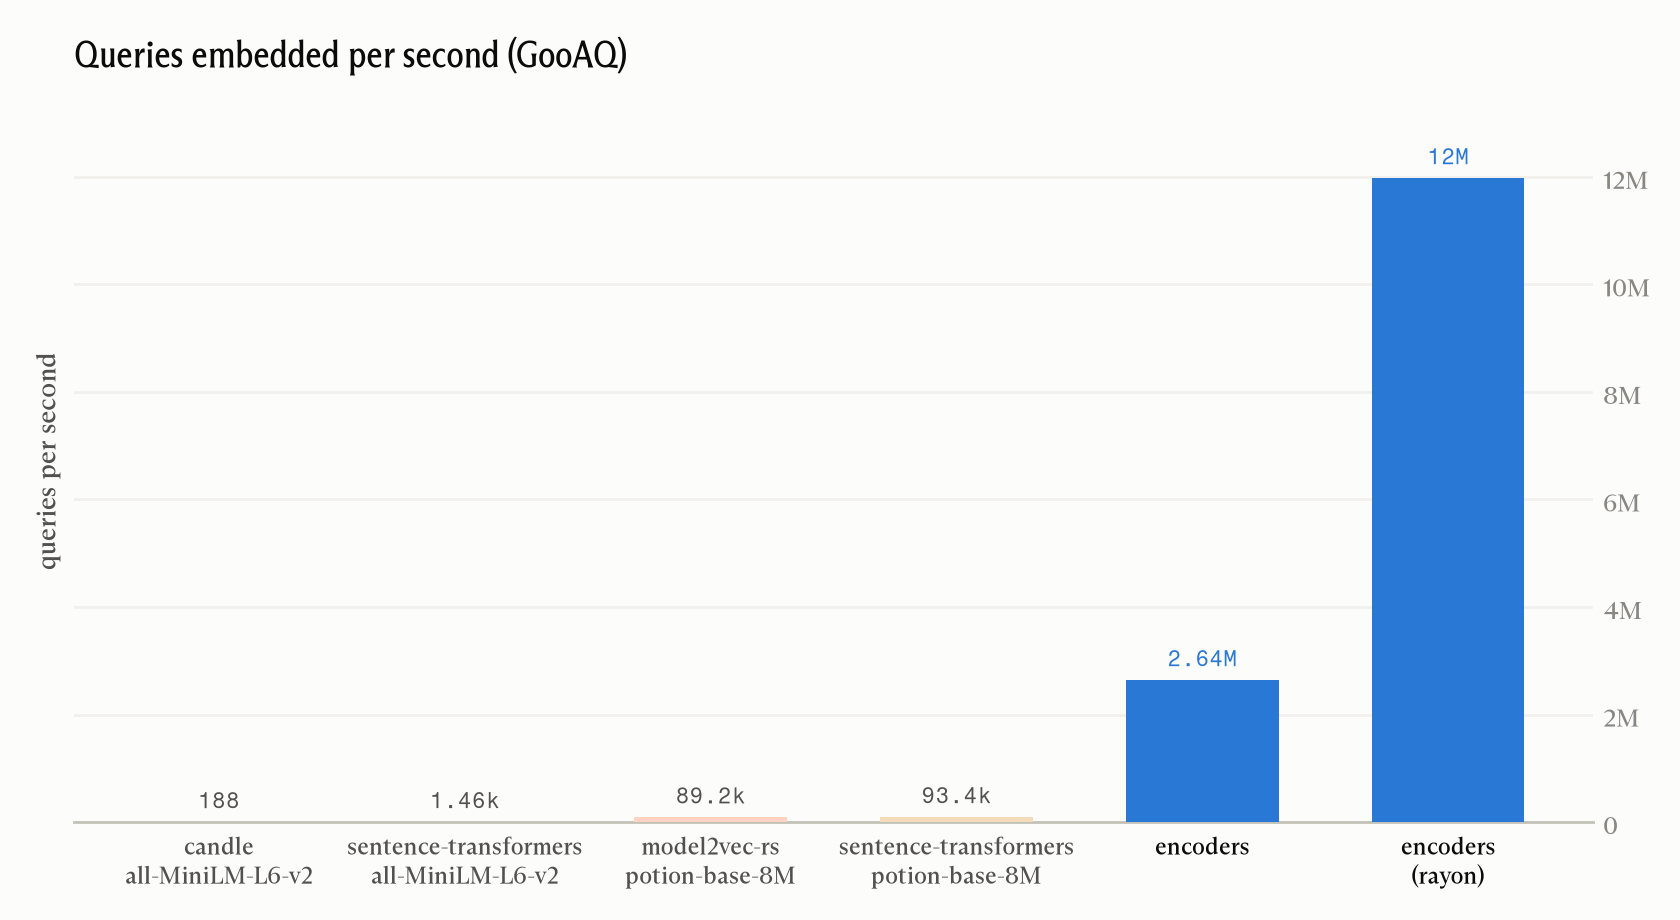
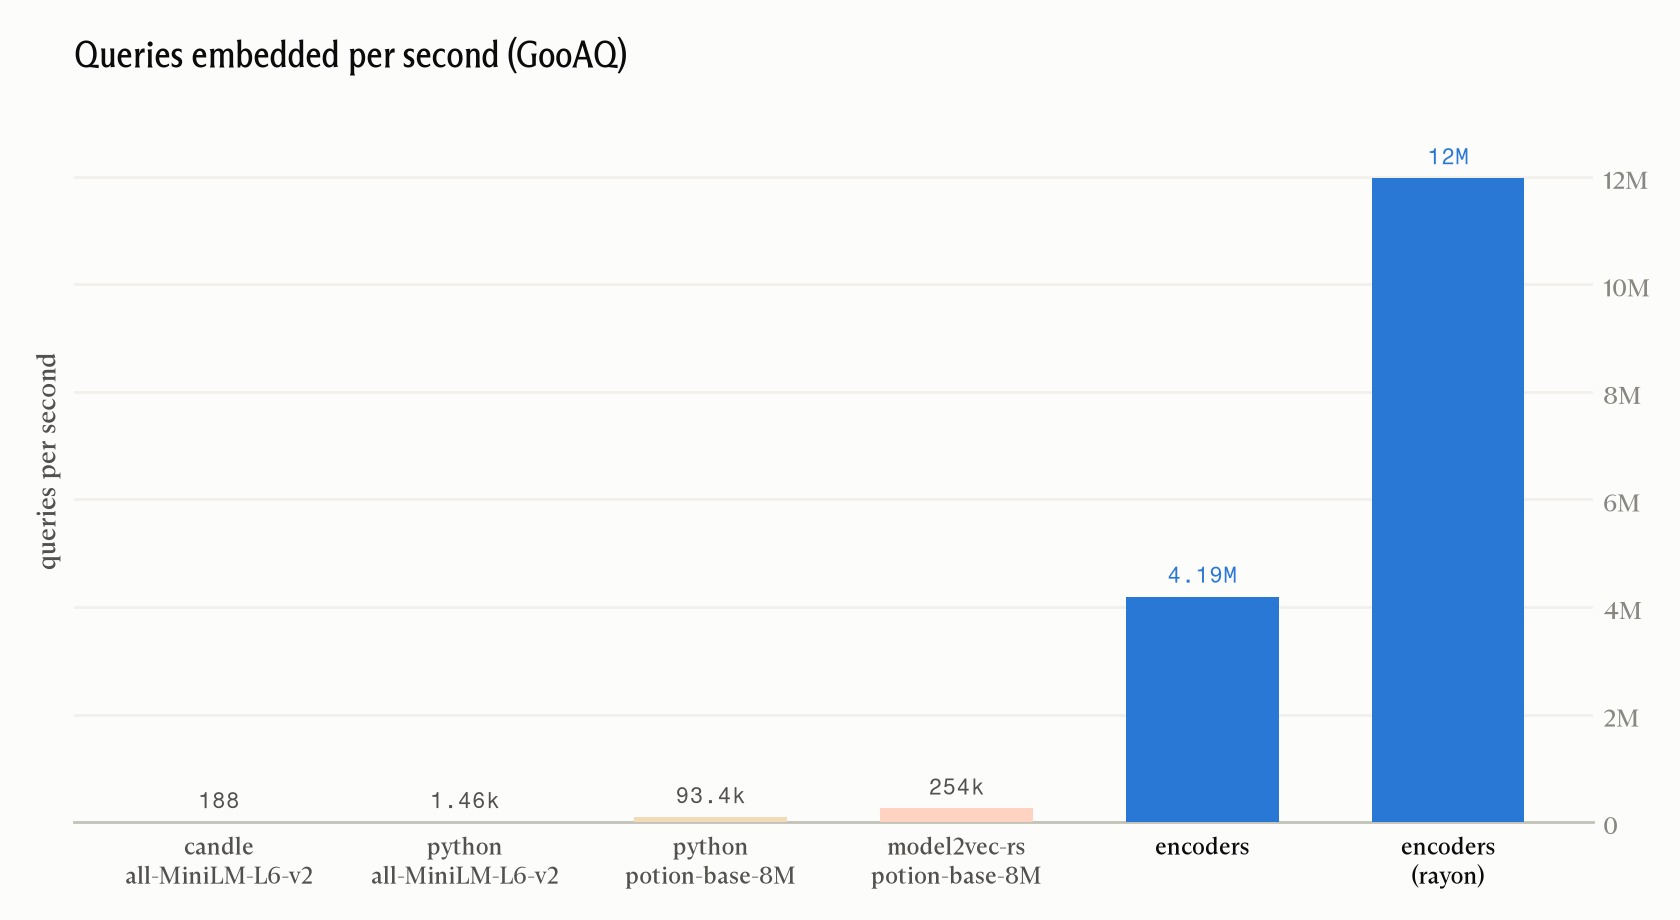
run m2v-rs benchmark on all cores

diff --git a/bench/benches/embedders.rs b/bench/benches/embedders.rs
@@ -5,12 +5,15 @@
 //!   With `--features rayon` this is recorded as `encoders-rayon` on every
 //!   core and the other two are skipped.
 //! - `model2vec-rs`: model2vec's default model (`minishlab/potion-base-8M`),
-//!   downloaded through hf-hub on first run.
+//!   downloaded through hf-hub on first run. Its only parallelism is the
+//!   `tokenizers` batch encode, which runs here on every core in its own rayon
+//!   pool, matching sentence-transformers, whose tokenizer is not limited by
+//!   torch's thread setting either.
 //! - `candle/all-MiniLM-L6-v2`: the usual small transformer baseline, run on
 //!   CPU with candle in f32, mean pooled and normalized like
 //!   sentence-transformers does. Weights are downloaded to `target/minilm`
-//!   on first run. Outside the `rayon` build everything is pinned to one
-//!   thread, so all three bars are single-core.
+//!   on first run. Outside the `rayon` build, encoders and candle are pinned
+//!   to one thread.
 
 use criterion::{Criterion, SamplingMode, Throughput, criterion_group, criterion_main};
 use candle_core::{Device, Tensor};
@@ -138,8 +141,15 @@ fn bench_embedders(c: &mut Criterion) {
 
     let model2vec = StaticModel::from_pretrained(MODEL2VEC_DEFAULT, None, None, None)
         .unwrap_or_else(|e| panic!("model2vec-rs failed to load {MODEL2VEC_DEFAULT}: {e}"));
+    // The global pool is pinned to one thread for candle; model2vec-rs gets
+    // a pool of its own on every core. Rayon's parallel iterators (here the
+    // `tokenizers` batch encode) run in whichever pool they are called from.
+    let all_cores = rayon::ThreadPoolBuilder::new()
+        .num_threads(std::thread::available_parallelism().map_or(1, |n| n.get()))
+        .build()
+        .expect("failed to build the model2vec-rs thread pool");
     group.bench_function("model2vec-rs", |b| {
-        b.iter(|| black_box(model2vec.encode(black_box(&batch))));
+        b.iter(|| all_cores.install(|| black_box(model2vec.encode(black_box(&batch)))));
     });
 
     let minilm = MiniLm::load();

diff --git a/bench/py/charts.py b/bench/py/charts.py
@@ -48,8 +48,8 @@ QPS_LABELS = {
     "encoders-rayon": "encoders\n(rayon)",
     "model2vec-rs": "model2vec-rs\npotion-base-8M",
     "candle/all-MiniLM-L6-v2": "candle\nall-MiniLM-L6-v2",
-    "minishlab/potion-base-8M": "sentence-transformers\npotion-base-8M",
-    "sentence-transformers/all-MiniLM-L6-v2": "sentence-transformers\nall-MiniLM-L6-v2",
+    "minishlab/potion-base-8M": "python\npotion-base-8M",
+    "sentence-transformers/all-MiniLM-L6-v2": "python\nall-MiniLM-L6-v2",
 }
 PY_MODELS = ["minishlab/potion-base-8M", "sentence-transformers/all-MiniLM-L6-v2"]
 HIGHLIGHT = {"encoders", "encoders-rayon"}
@@ -147,7 +147,10 @@ def criterion_results(group: str) -> dict[str, float]:
         assert unit in ("Bytes", "Elements"), unit
         out[meta["function_id"]] = count / secs
     if not out:
-        print(f"no criterion results under {CRITERION / group}; skipping its chart", file=sys.stderr)
+        print(
+            f"no criterion results under {CRITERION / group}; skipping its chart",
+            file=sys.stderr,
+        )
     return out
 
 

diff --git a/bench/py/qps.py b/bench/py/qps.py
@@ -2,8 +2,9 @@
 
 Encodes the same first 4096 gooaq questions as the Rust bench, repeatedly for
 about 15 s per model, and reports the mean QPS with the first pass discarded
-as warm-up. Defaults to model2vec's default model and all-MiniLM-L6-v2, run
-on a single CPU thread to match the Rust bench; pass model names to override.
+as warm-up. Defaults to model2vec's default model and all-MiniLM-L6-v2, with
+torch limited to one thread; the Hugging Face tokenizer still spreads each
+batch across every core. Pass model names to override.
 
     uv run qps.py
     uv run qps.py minishlab/potion-base-8M sentence-transformers/all-MiniLM-L6-v2

diff --git a/readme.md b/readme.md
@@ -283,7 +283,7 @@ The idea behind encoders (and the crate that underpins it, [`ese`](./ese)) is si
 
 **Unbounded input.** When 256 rows are pending they're drained into a running sum and collection starts over, so there is no token limit: a three-word query and an entire book take the same code path, and every token of the book counts. This is a real difference from some other implementations. `model2vec-rs`, for example, truncates to 512 tokens by default, so very long inputs embed differently there.
 
-**Benchmarks.** The charts come from the [`bench`](./bench) crate (Criterion) and its Python companion in [`bench/py`](./bench/py). Every workload runs over questions from the [GooAQ](https://huggingface.co/datasets/sentence-transformers/gooaq) dataset, through each library's own API, on a single CPU thread. The exceptions are the bars labeled `rayon`, and tantivy, whose index writer starts its own worker threads. SHA-256 uses the `sha2` crate's portable implementation with hardware SHA instructions disabled. To regenerate both charts on your own machine:
+**Benchmarks.** The charts come from the [`bench`](./bench) crate (Criterion) and its Python companion in [`bench/py`](./bench/py). Every workload runs over questions from the [GooAQ](https://huggingface.co/datasets/sentence-transformers/gooaq) dataset. To regenerate both charts on your own machine:
 
 ```console
 $ uv run --project bench/py bench/py/charts.py
@@ -293,7 +293,7 @@ The workspace has four crates. `encoders` is the one above. [`ese`](./ese) is th
 
 ### Caveats emptor
 
-**Embedding quality.** Encoders only works with static embedding models: each token has one fixed vector and a text is the mean of its tokens' vectors. There is no attention, so word order and context are invisible, and quality is a step below even small transformer encoders. On retrieval benchmarks the gap is real but not enormous; the bekko family scores about 49 to 54 on NanoBEIR against the low 60s for a small transformer. In exchange, embedding text runs in the order of nanoseconds instead of milliseconds. For a lot of (if not most) search, dedup, clustering, and routing work, that is the right trade (and we hope the speed makes up for the rest).
+**Embedding quality.** Encoders only works with static embedding models: each token has one fixed vector and a text is the mean of its tokens' vectors. There is no attention, so word order and context are invisible, and quality is a step below even small transformer encoders. On retrieval benchmarks the gap is real but not enormous; the bekko family scores about 49 to 54 on NanoBEIR against the low 60s for a small transformer. In exchange, embedding text runs in the order of nanoseconds instead of milliseconds. For a lot of (if not most) search, dedup, clustering, and routing work, that seems like the right trade (and we hope the speed makes up for the rest).
 
 **Binary size and compile time.** The model's lookup table is embedded in your executable, so this can add a few MB (for a small model at a narrow width) up to a few hundred MB for a model large vocabulary at full width in f32. That said, any model needs its weights at runtime somehow; this crate just puts them in the binary rather than downloading/loading them at runtime. The first build of a model downloads it from the Hugging Face hub (into `target/ese-cache`, so it's cleaned up by `cargo clean`) and the final link of a large table takes a while. You also _really, really need to compile this with optimizations on_... give LLVM a chance to autovectorize!
 
